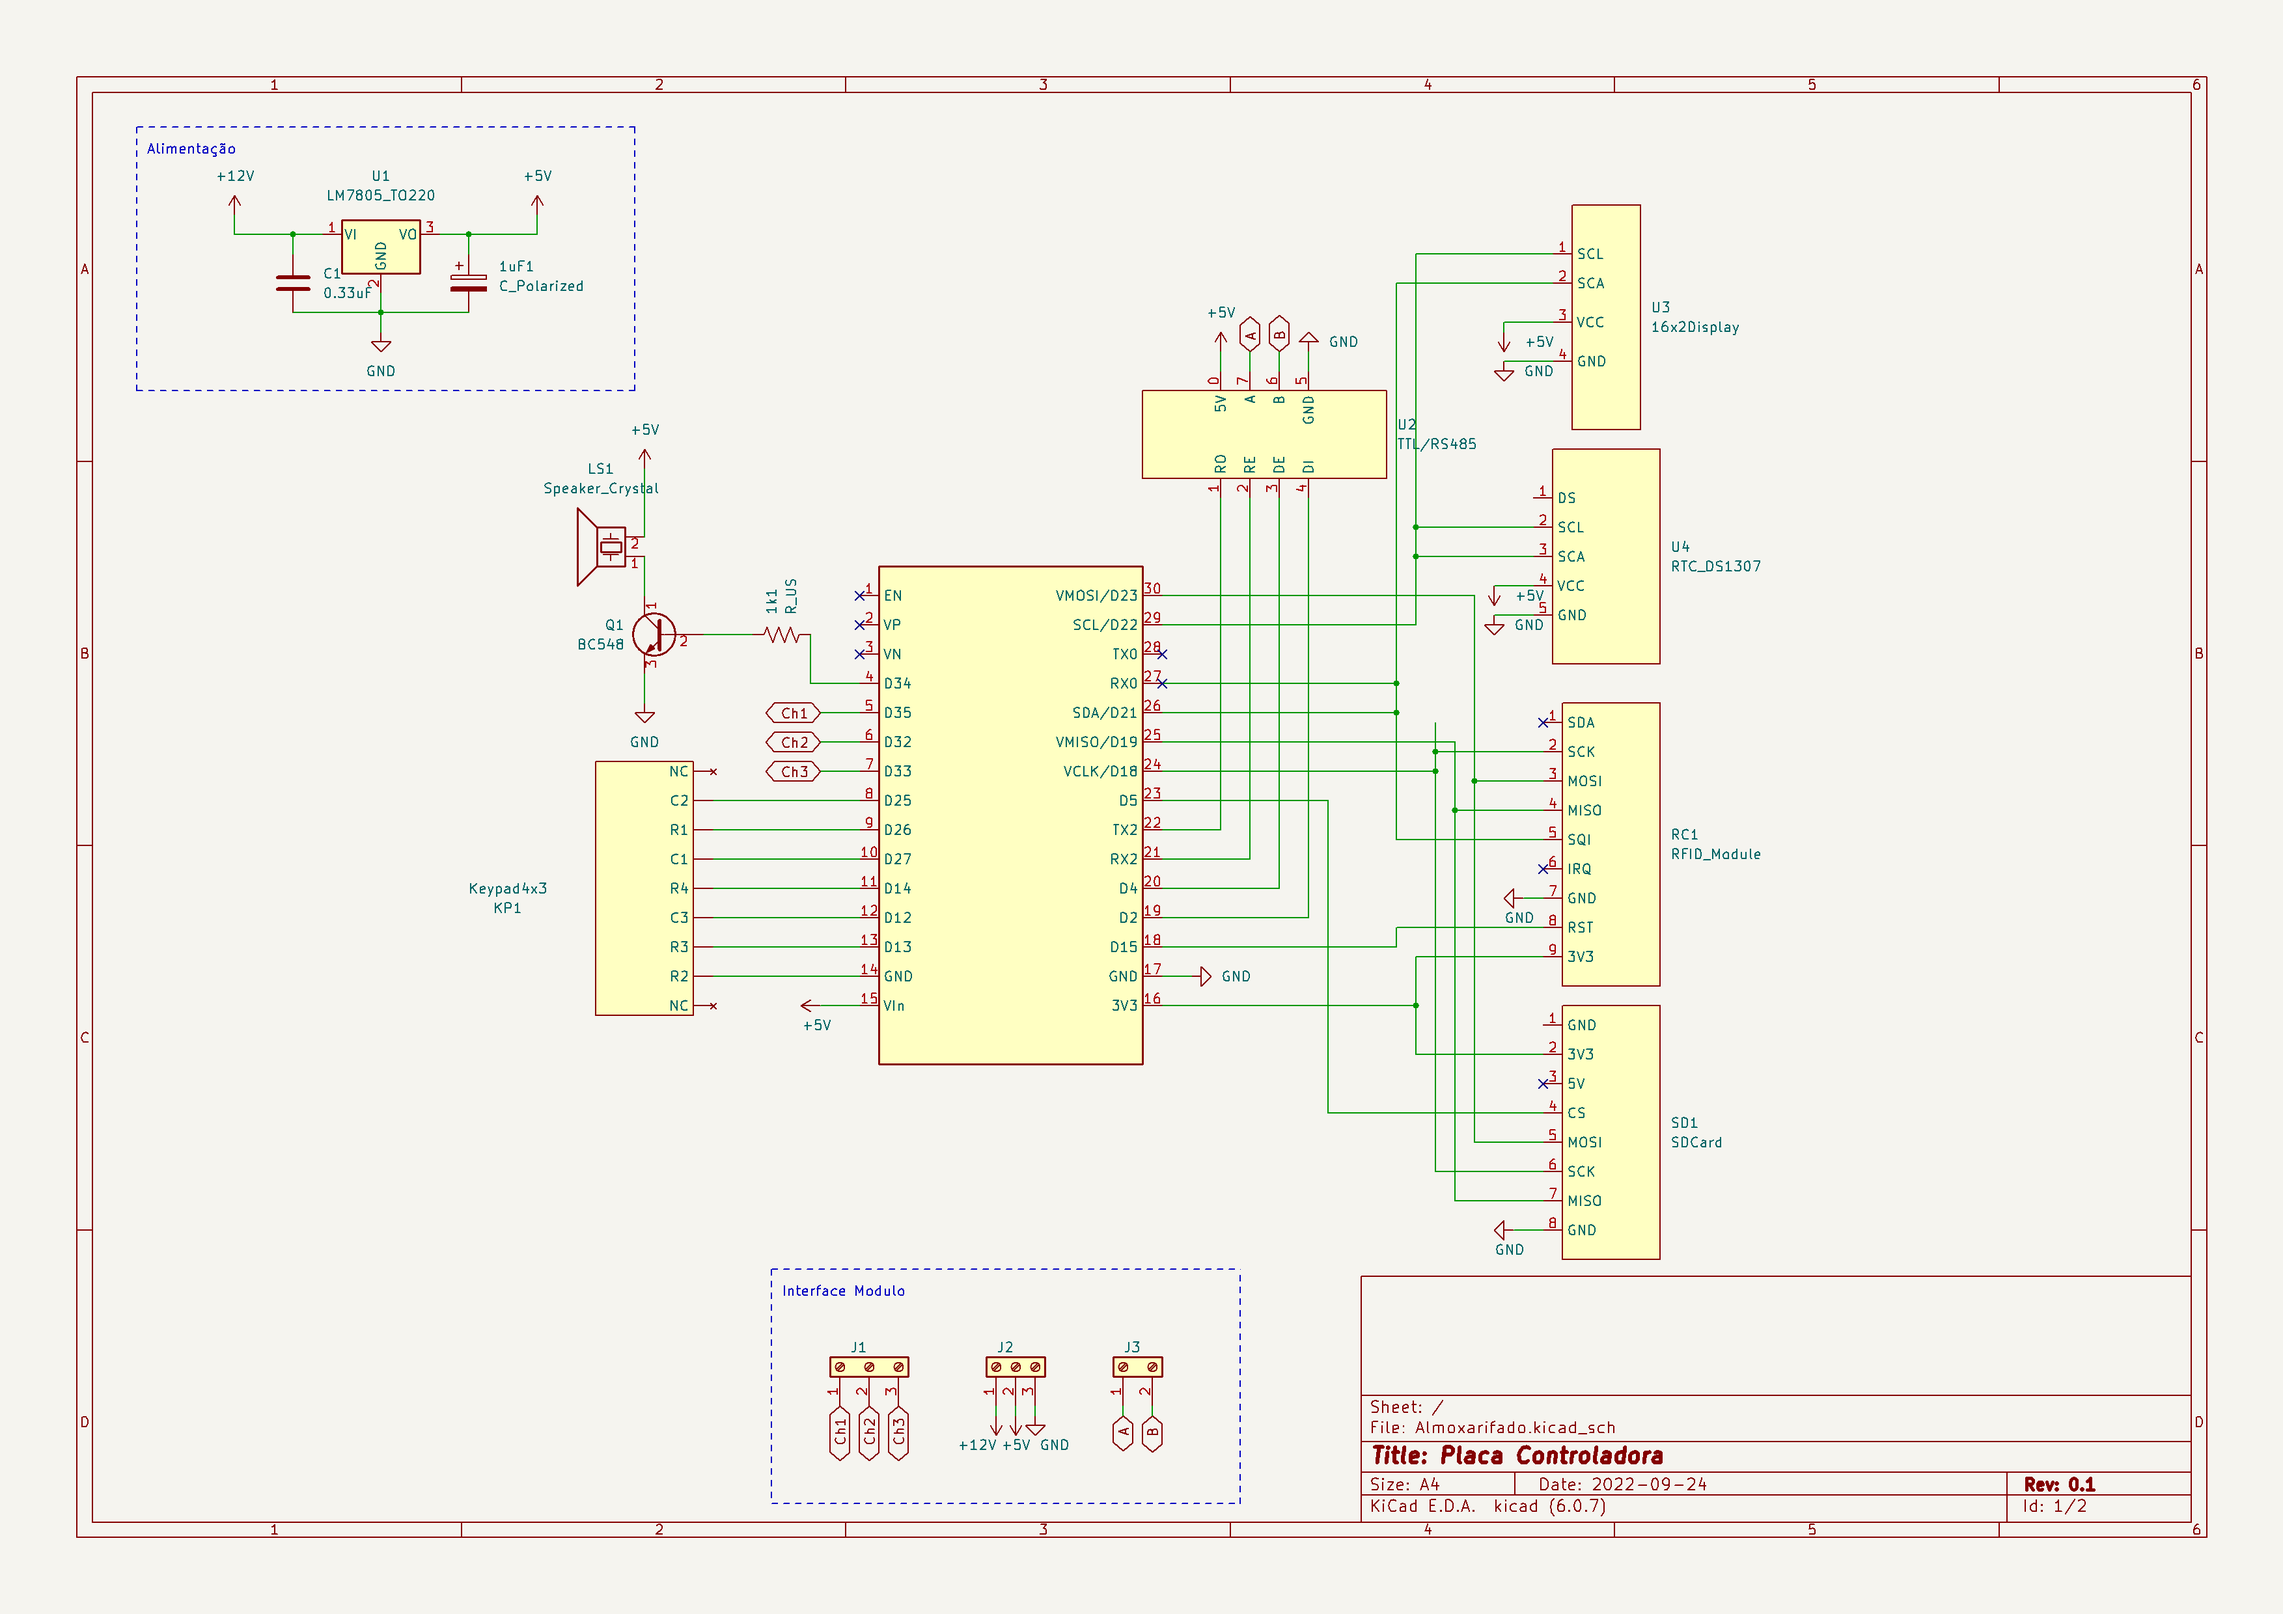
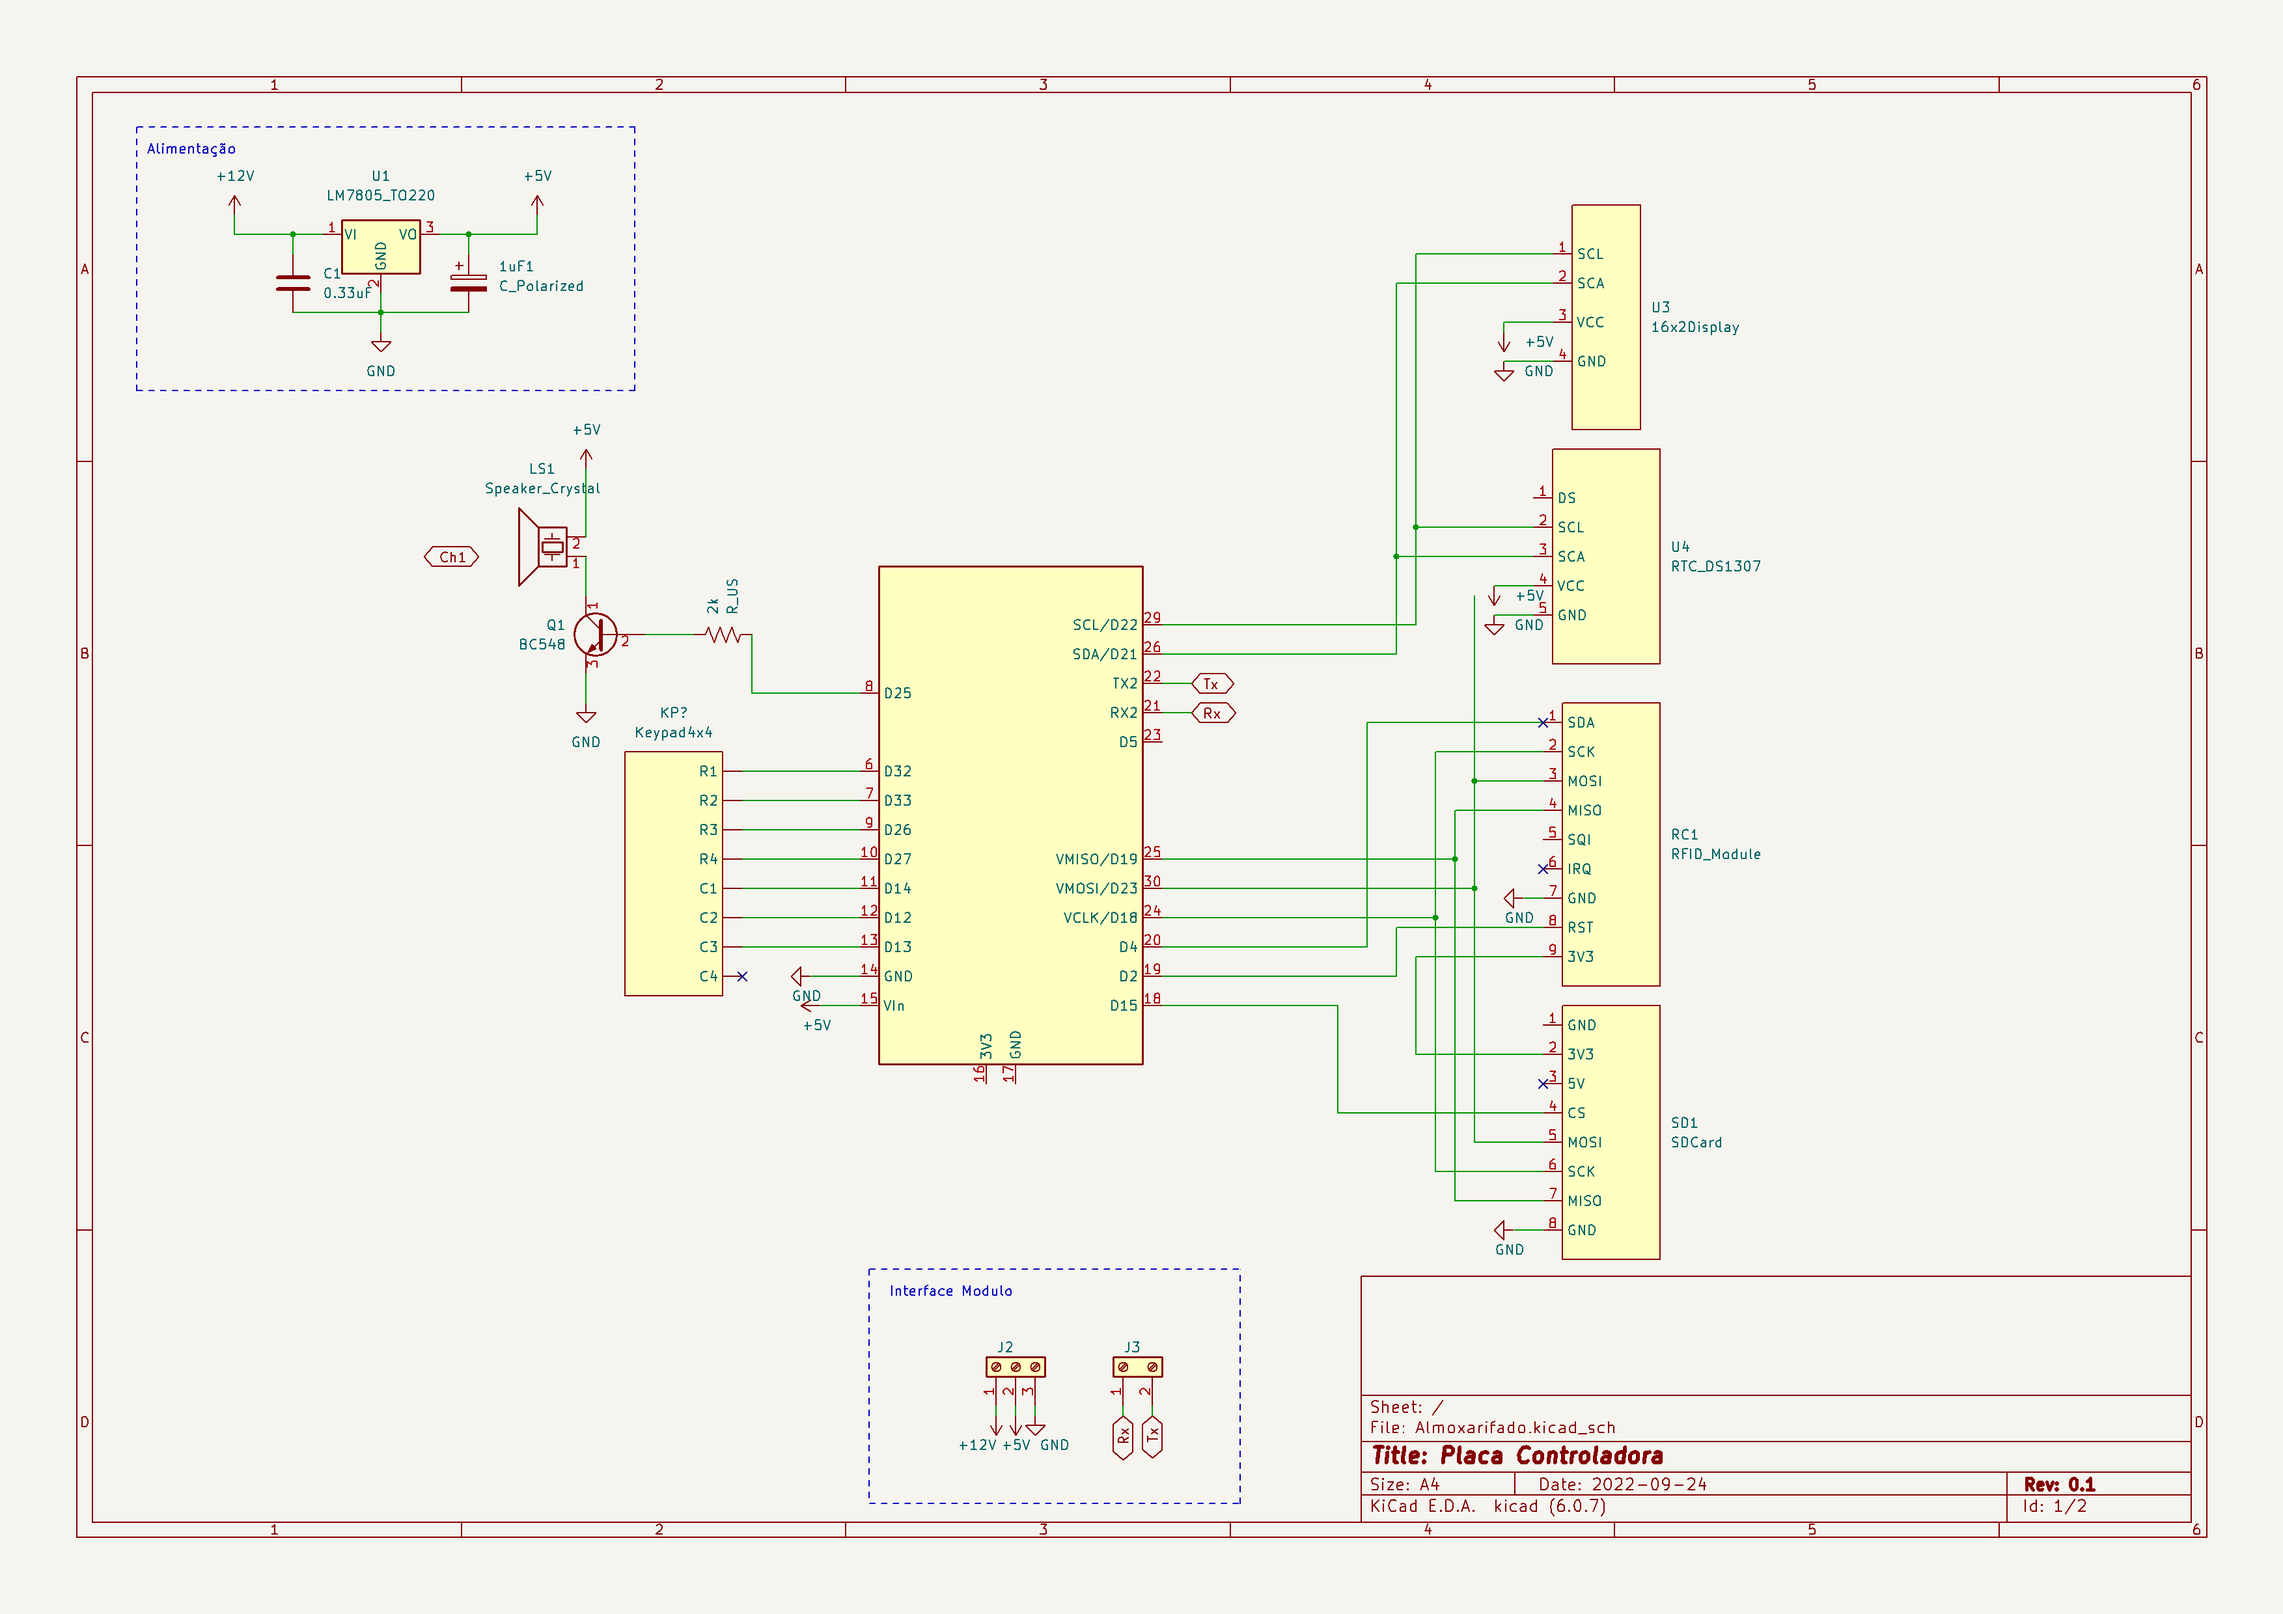
Post do Protóotipo

diff --git a/_posts/2022-10-02-prototipos-das-placas.md b/_posts/2022-10-02-prototipos-das-placas.md
@@ -1,0 +1,21 @@
+---
+layout: post
+title: Montagem da parte eletrônica dos protótipos
+cover-img: /assets/img/esquematico-placas.png
+tags: [Entregavel 3]
+comments: false
+---
+
+
+Esta semana utilizando os esquemáticos construímos os protótipos da placa controladora e da placa do módulo utilizando placas padrão.
+Também foi realizado o teste simultâneo dos módulos testados individualmente com sucesso.
+
+<p style="margin-bottom: 0px;">
+<a href="../assets/img/placas.jpg"><img class="mx-auto d-block" src="../assets/img/placas.jpg"" style="width:65%;height:65%;"></a>
+ <figcaption class="figure-caption text-center">Protótipo da placa controladora e do módulo</figcaption>
+  </p>
+
+  Porem tivemos alguns problemas em relação ao esquemático. Primeiro ainda falta o módulo RTC, que ainda não conseguimos devido à falta
+  de estoque na loja onde compramos os outros componentes. E o outro problema foi na montagem do relé na placa do módulo. Devido à falta de 
+  espaço e a distância incomum entre os pinos do relé não foi possível montá-lo na placa. Para remediar esse problema utilizamos por enquanto um
+  módulo pronto de relé, que embora não seja ideal atende as nossas necessidades.
